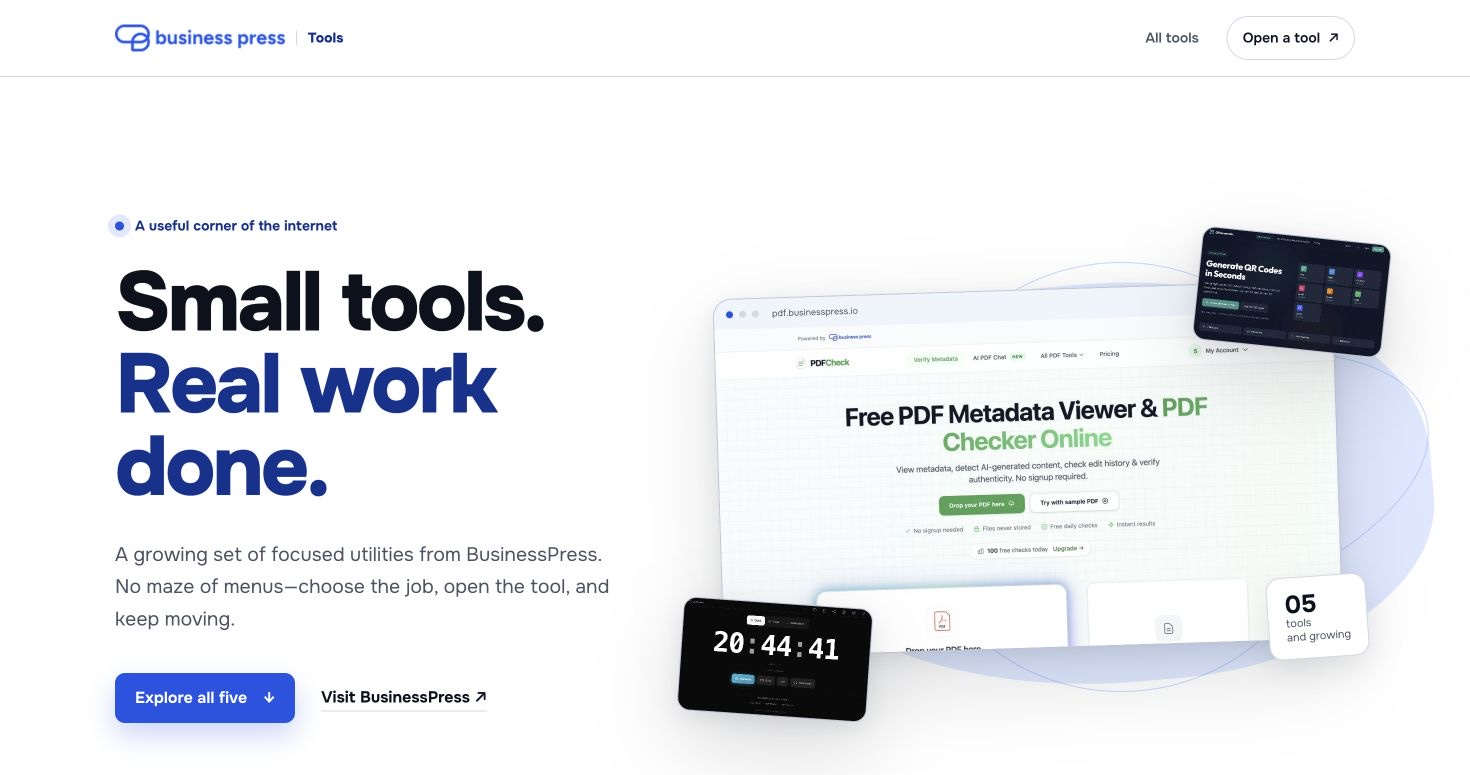
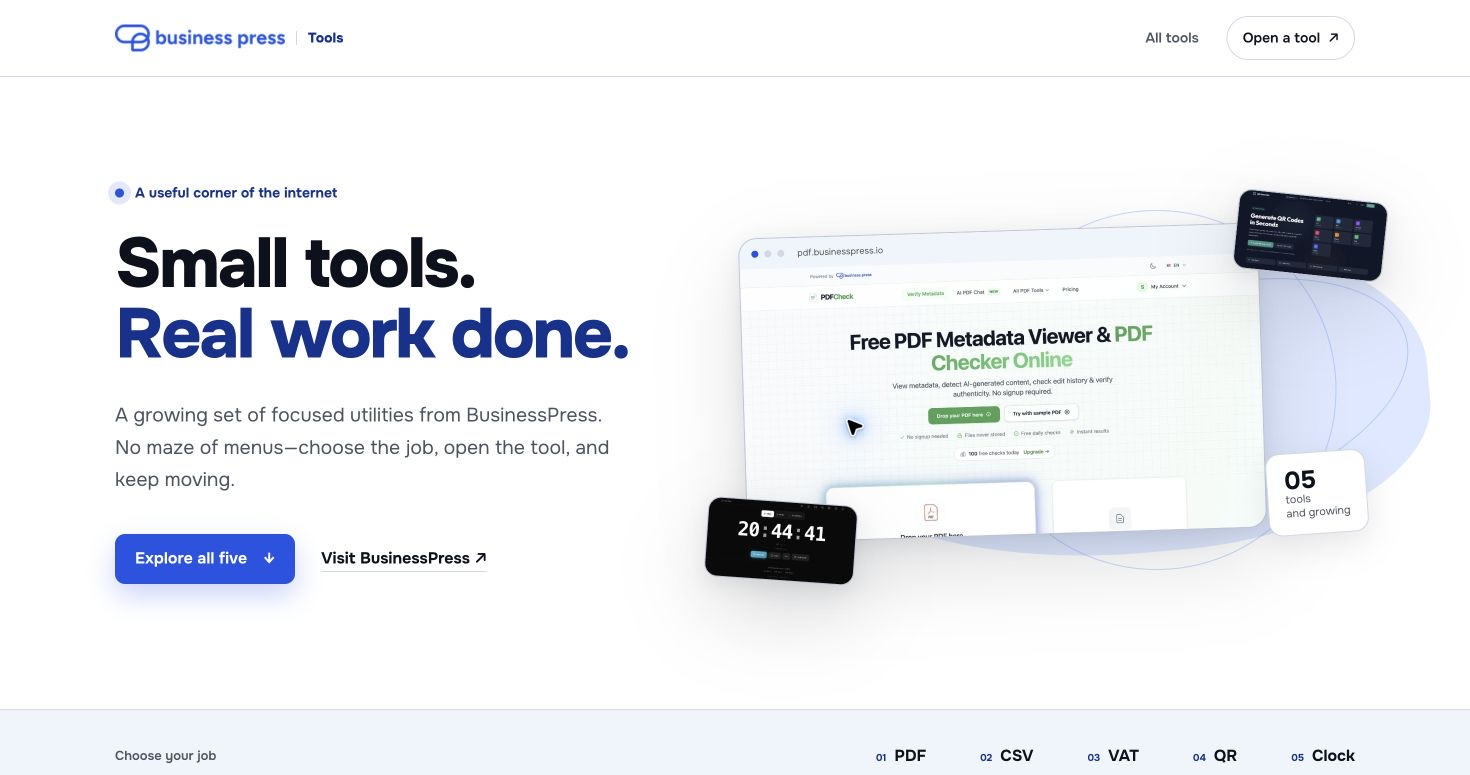
reduce screenshot and heading scale

diff --git a/public/assets/css/site.css b/public/assets/css/site.css
@@ -110,12 +110,12 @@ nav > a:not(.header-cta):hover { color: var(--ink); }
 .header-cta:hover { transform: translateY(-2px); border-color: var(--ink); }
 
 .hero {
-  min-height: 710px;
+  min-height: 620px;
   display: grid;
-  grid-template-columns: minmax(0, 0.88fr) minmax(520px, 1.12fr);
+  grid-template-columns: minmax(0, 0.95fr) minmax(470px, 1.05fr);
   align-items: center;
-  gap: clamp(50px, 7vw, 110px);
-  padding-block: clamp(86px, 10vw, 138px) clamp(110px, 12vw, 170px);
+  gap: clamp(44px, 5vw, 80px);
+  padding-block: clamp(78px, 8vw, 105px) clamp(90px, 9vw, 125px);
 }
 
 .hero-copy { position: relative; z-index: 2; }
@@ -143,8 +143,8 @@ h1, h2, h3 { text-wrap: balance; }
 
 h1 {
   margin: 0;
-  font-size: clamp(3.5rem, 6.7vw, 5.25rem);
-  line-height: 0.98;
+  font-size: clamp(3rem, 5.4vw, 4.4rem);
+  line-height: 1;
   letter-spacing: -0.035em;
   font-weight: 800;
 }
@@ -185,7 +185,7 @@ h1 em { color: var(--primary-dark); font-style: normal; }
 .text-link:hover span { transform: translate(3px, -3px); }
 
 .hero-visual {
-  min-height: 450px;
+  min-height: 360px;
   position: relative;
   display: flex;
   align-items: center;
@@ -203,8 +203,8 @@ h1 em { color: var(--primary-dark); font-style: normal; }
 }
 
 .orbit { position: absolute; z-index: -2; border: 1px solid oklch(0.72 0.14 264 / 0.42); border-radius: 50%; }
-.orbit-one { width: 430px; height: 430px; right: 3%; top: 4%; }
-.orbit-two { width: 540px; height: 250px; right: -13%; top: 28%; transform: rotate(-17deg); }
+.orbit-one { width: 360px; height: 360px; right: 3%; top: 2%; }
+.orbit-two { width: 460px; height: 220px; right: -10%; top: 25%; transform: rotate(-17deg); }
 
 .preview-window {
   overflow: hidden;
@@ -214,9 +214,8 @@ h1 em { color: var(--primary-dark); font-style: normal; }
   box-shadow: var(--shadow);
 }
 
-.preview-window img { width: 100%; height: 100%; object-fit: cover; object-position: top; }
-.preview-main { width: min(620px, 100%); position: relative; z-index: 3; transform: rotate(-1.8deg); }
-.preview-main img { aspect-ratio: 1.89; }
+.preview-window img { width: 100%; height: auto; object-fit: contain; }
+.preview-main { width: min(520px, 100%); position: relative; z-index: 3; transform: rotate(-1.8deg); }
 
 .window-bar {
   height: 30px;
@@ -233,7 +232,7 @@ h1 em { color: var(--primary-dark); font-style: normal; }
 .window-bar i:first-child { background: var(--accent); }
 .window-bar span { margin-left: 7px; }
 
-.preview-side { position: absolute; z-index: 4; width: 190px; height: 114px; border-radius: 13px; }
+.preview-side { position: absolute; z-index: 4; width: 150px; border-radius: 13px; }
 .preview-qr { right: -5%; top: -2%; transform: rotate(6deg); }
 .preview-clock { left: -6%; bottom: -5%; transform: rotate(4deg); }
 
@@ -275,20 +274,20 @@ h1 em { color: var(--primary-dark); font-style: normal; }
 }
 
 .section-heading p { margin: 11px 0 0; color: var(--muted); font-size: 13px; font-weight: 700; }
-.section-heading h2, .closing h2 { margin: 0; font-size: clamp(2.3rem, 4.5vw, 4.5rem); line-height: 1.03; letter-spacing: -0.035em; }
+.section-heading h2, .closing h2 { margin: 0; font-size: clamp(2.1rem, 3.7vw, 3.4rem); line-height: 1.06; letter-spacing: -0.032em; }
 
 .tool-row {
   --tool-tint: oklch(0.94 0.05 145);
   display: grid;
-  grid-template-columns: minmax(300px, 0.78fr) minmax(0, 1.42fr);
+  grid-template-columns: minmax(300px, 0.95fr) minmax(0, 1.05fr);
   align-items: center;
-  gap: clamp(54px, 8vw, 118px);
-  padding-block: clamp(68px, 9vw, 118px);
+  gap: clamp(48px, 5vw, 76px);
+  padding-block: clamp(58px, 7vw, 88px);
   border-top: 1px solid var(--line);
 }
 
 .tool-row:last-child { border-bottom: 1px solid var(--line); }
-.tool-row-reverse { grid-template-columns: minmax(0, 1.42fr) minmax(300px, 0.78fr); }
+.tool-row-reverse { grid-template-columns: minmax(0, 1.05fr) minmax(300px, 0.95fr); }
 .tool-row-reverse .tool-copy { order: 2; }
 .tool-row-reverse .screenshot-wrap { order: 1; }
 .tool-csv { --tool-tint: oklch(0.94 0.05 145); }
@@ -297,7 +296,7 @@ h1 em { color: var(--primary-dark); font-style: normal; }
 .tool-clock { --tool-tint: oklch(0.91 0.012 220); }
 
 .tool-number { display: block; margin-bottom: 22px; color: var(--primary-dark); font-size: 12px; font-weight: 800; }
-.tool-copy h3 { margin: 0; font-size: clamp(2rem, 3.2vw, 3.15rem); line-height: 1.06; letter-spacing: -0.032em; }
+.tool-copy h3 { margin: 0; font-size: clamp(1.75rem, 2.6vw, 2.55rem); line-height: 1.1; letter-spacing: -0.028em; }
 .tool-copy > p { max-width: 46ch; margin: 23px 0; color: var(--muted); font-size: 17px; }
 
 .feature-list { display: grid; gap: 9px; margin: 0 0 30px; padding: 0; list-style: none; font-size: 14px; font-weight: 600; }
@@ -307,14 +306,17 @@ h1 em { color: var(--primary-dark); font-style: normal; }
 .screenshot-wrap {
   position: relative;
   display: block;
+  width: min(100%, 620px);
+  justify-self: end;
   padding: clamp(12px, 1.7vw, 22px);
   border-radius: var(--radius-lg);
   background: var(--tool-tint);
   transition: transform 260ms ease, box-shadow 260ms ease;
 }
 
-.screenshot-wrap:hover { transform: translateY(-8px) rotate(0.4deg); box-shadow: 0 30px 70px oklch(0.18 0.025 264 / 0.13); }
-.screenshot-wrap img { width: 100%; aspect-ratio: 1.897; object-fit: cover; object-position: top; border: 1px solid oklch(0.82 0.02 264); border-radius: calc(var(--radius-lg) - 9px); box-shadow: 0 12px 34px oklch(0.18 0.025 264 / 0.12); }
+.tool-row-reverse .screenshot-wrap { justify-self: start; }
+.screenshot-wrap:hover { transform: translateY(-6px) rotate(0.25deg); box-shadow: 0 24px 54px oklch(0.18 0.025 264 / 0.12); }
+.screenshot-wrap img { width: 100%; height: auto; object-fit: contain; border: 1px solid oklch(0.82 0.02 264); border-radius: calc(var(--radius-lg) - 9px); box-shadow: 0 10px 26px oklch(0.18 0.025 264 / 0.1); }
 
 .screenshot-label {
   position: absolute;
@@ -361,7 +363,7 @@ footer { background: var(--ink); color: var(--white); }
 
 @media (max-width: 1100px) {
   .hero { grid-template-columns: minmax(0, 0.9fr) minmax(430px, 1.1fr); gap: 44px; }
-  .preview-side { width: 155px; height: 92px; }
+  .preview-side { width: 125px; }
   .tool-count { right: -1%; }
 }
 
@@ -375,6 +377,7 @@ footer { background: var(--ink); color: var(--white); }
   .tool-row, .tool-row-reverse { grid-template-columns: 1fr; gap: 50px; }
   .tool-row-reverse .tool-copy, .tool-row-reverse .screenshot-wrap { order: initial; }
   .tool-copy { max-width: 620px; }
+  .screenshot-wrap, .tool-row-reverse .screenshot-wrap { justify-self: start; }
   .closing { align-items: flex-start; flex-direction: column; min-height: 0; }
 }
 
@@ -386,29 +389,29 @@ footer { background: var(--ink); color: var(--white); }
   nav > a:not(.header-cta) { display: none; }
   .header-cta { padding: 9px 12px; font-size: 12px; }
   .hero { gap: 42px; padding-block: 68px 104px; }
-  h1 { font-size: clamp(3.05rem, 15vw, 4.25rem); }
+  h1 { font-size: clamp(2.65rem, 12.8vw, 3.45rem); }
   .hero-intro { font-size: 1.05rem; }
   .hero-actions { align-items: stretch; flex-direction: column; gap: 18px; }
   .button { width: 100%; }
   .text-link { align-self: flex-start; }
-  .hero-visual { min-height: 290px; width: 100%; }
-  .preview-side { width: 120px; height: 72px; }
+  .hero-visual { min-height: 240px; width: 100%; }
+  .preview-side { width: 96px; }
   .preview-qr { right: -5%; top: -5%; }
   .preview-clock { left: -5%; bottom: -7%; }
   .tool-count { right: -3%; bottom: 0; }
-  .orbit-one { width: 280px; height: 280px; }
-  .orbit-two { width: 350px; height: 180px; }
+  .orbit-one { width: 240px; height: 240px; }
+  .orbit-two { width: 310px; height: 155px; }
   .tool-strip-inner { display: block; }
   .tool-strip-inner > p { margin-bottom: 16px; }
   .quick-links { display: grid; grid-template-columns: repeat(3, 1fr); gap: 13px 18px; }
   .section-heading { grid-template-columns: 1fr; gap: 14px; }
   .section-heading p { margin: 0; }
-  .toolbox { padding-block: 96px; }
-  .tool-row { padding-block: 72px; gap: 38px; }
+  .toolbox { padding-block: 80px; }
+  .tool-row { padding-block: 58px; gap: 34px; }
   .tool-copy > p { font-size: 16px; }
   .screenshot-wrap { padding: 9px; }
   .screenshot-label { right: 16px; font-size: 9px; }
-  .closing h2 { font-size: 2.45rem; }
+  .closing h2 { font-size: 2.15rem; }
   .footer-grid { grid-template-columns: 1fr; padding-block: 62px; }
   .footer-links { justify-content: flex-start; }
   .footer-grid > p { grid-column: auto; }

diff --git a/public/index.html b/public/index.html
@@ -11,7 +11,7 @@
   <link rel="preconnect" href="https://fonts.googleapis.com">
   <link rel="preconnect" href="https://fonts.gstatic.com" crossorigin>
   <link href="https://fonts.googleapis.com/css2?family=Onest:wght@400;500;600;700;800&amp;display=swap" rel="stylesheet">
-  <link rel="stylesheet" href="assets/css/site.css?v=3">
+  <link rel="stylesheet" href="assets/css/site.css?v=4">
   <meta property="og:type" content="website">
   <meta property="og:title" content="BusinessPress Tools — Practical tools for everyday work">
   <meta property="og:description" content="Five focused tools for documents, data, VAT, QR codes and time.">

diff --git a/DESIGN.md b/DESIGN.md
@@ -23,8 +23,8 @@ The strategy is a committed BusinessPress blue system: white owns the canvas, co
 
 Use Onest as the single deliberate family, sourced from Google Fonts with a system-sans fallback. Its open forms feel approachable and operational. Use weight and scale—not a second decorative family—to create contrast.
 
-- Display: 700–800, fluid `clamp()`, maximum 84px, tracking no tighter than `-0.035em`
-- Headings: 650–750, balanced wrapping
+- Display: 700–800, fluid `clamp()`, maximum 70px, tracking no tighter than `-0.035em`
+- Headings: 650–750, balanced wrapping, with product headings capped near 41px
 - Body: 400–500, 1.6 line height, maximum 68ch
 - Labels: 650, compact sentence case; avoid repeated tracked uppercase kickers
 
@@ -33,6 +33,7 @@ Use Onest as the single deliberate family, sourced from Google Fonts with a syst
 - Maximum content width: 1240px with fluid side padding.
 - Hero: asymmetric two-column composition with a stacked preview specimen.
 - Product directory: alternating full-width showcase rows instead of interchangeable cards.
+- Product previews: full uncropped screenshots capped at 620px wide so the interface remains legible without dominating each row.
 - Use generous section spacing and tighter internal groupings.
 - On small screens, collapse showcases to a single column and keep the launch action close to the product title.
 
@@ -57,4 +58,4 @@ One coordinated first-load sequence may reveal hero copy and the preview stack. 
 
 ## Imagery
 
-Use current screenshots from the five live BusinessPress tools. Crop them consistently, preserve recognizable UI, compress to WebP, and provide outcome-focused alt text.
+Use current screenshots from the five live BusinessPress tools. Show each full capture without cropping, scale the frame instead of trimming the interface, compress to WebP, and provide outcome-focused alt text.